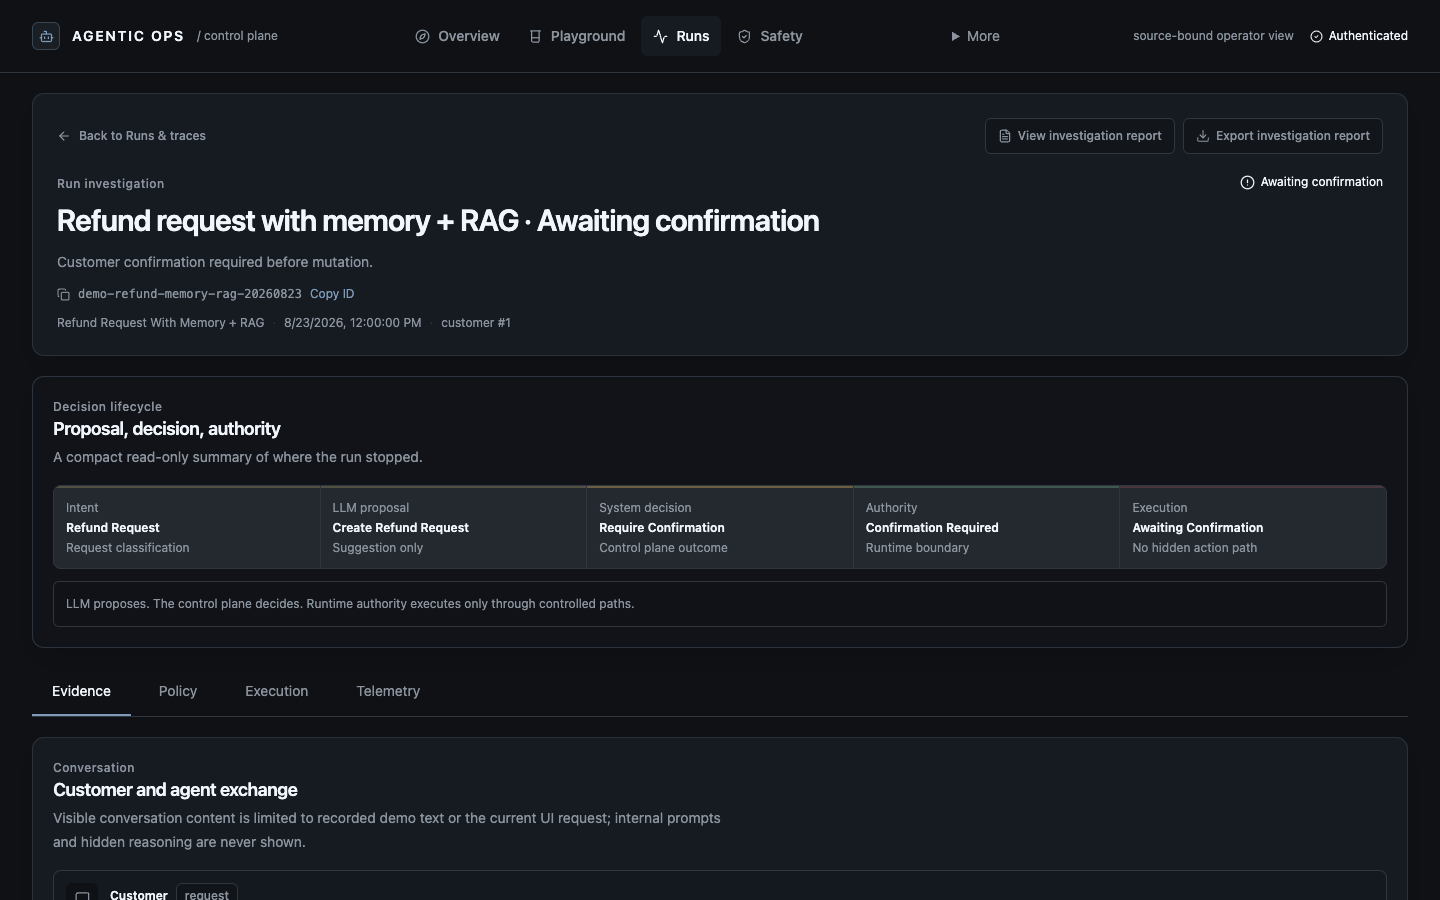
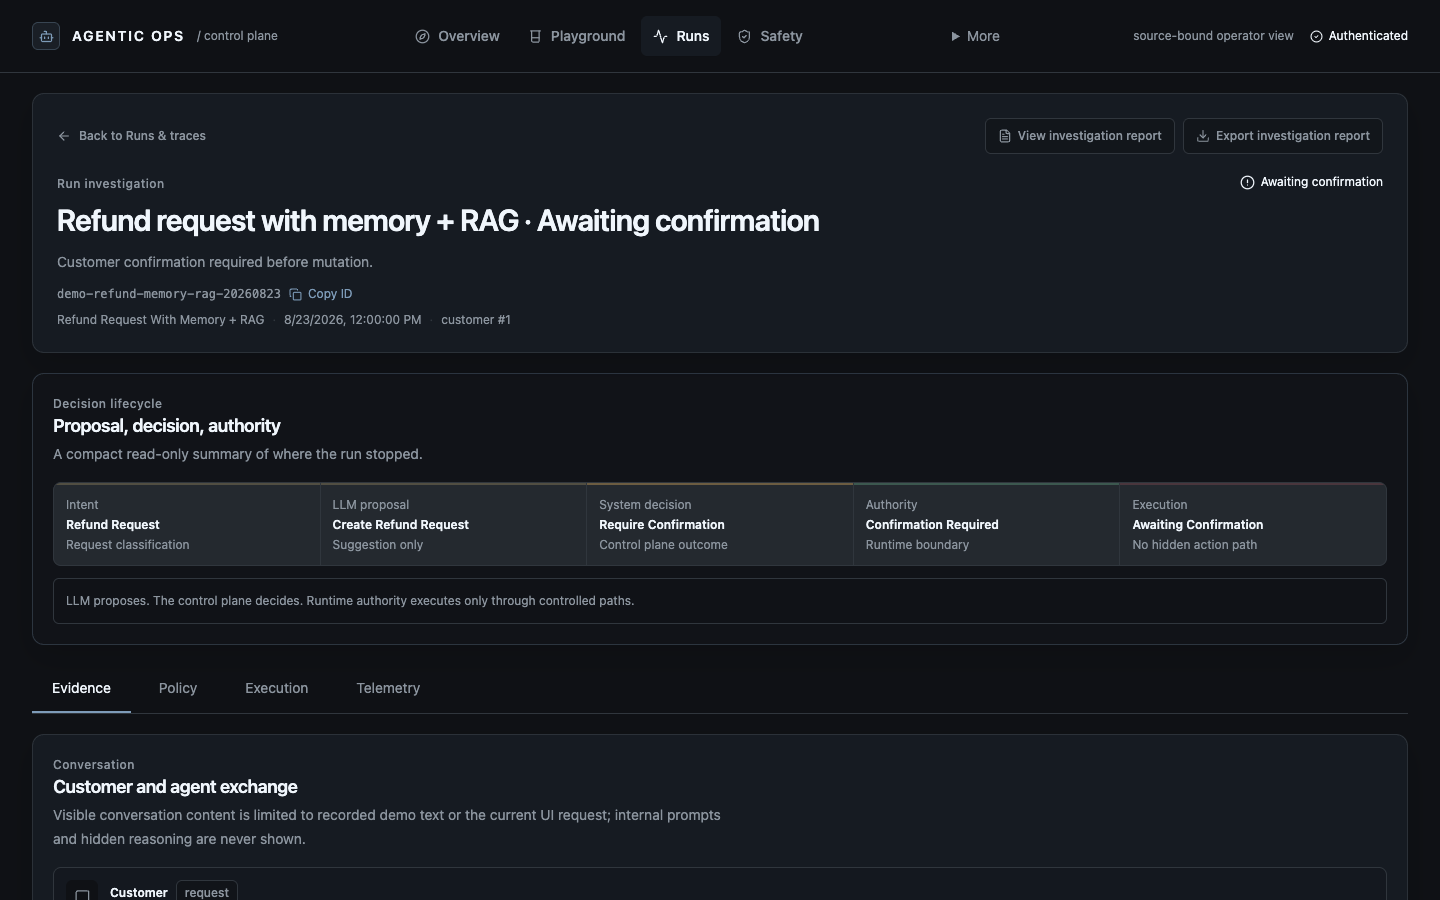
fix(ui): handle clipboard denial and verify permitted copy

diff --git a/frontend/src/components/RunInvestigationPage.tsx b/frontend/src/components/RunInvestigationPage.tsx
@@ -103,10 +103,10 @@ export function RunInvestigationPage({ run, demoScenario, memoryRecords, availab
     url.searchParams.set("tab", next);
     window.history.replaceState({}, "", url);
   };
-  const [copied, setCopied] = useState(false);
+  const [copyState, setCopyState] = useState<"idle" | "copied" | "failed">("idle");
   const scenario = useMemo(() => run ? demoScenario?.title || run.intent || run.request_type.replace(/_/g, " ") : "Run detail", [run, demoScenario]);
   useEffect(() => { if (!run) return; const focus = new URLSearchParams(window.location.search).get("focus"); const selector = focus === "evidence" ? '[aria-label="Evidence relationship graph"]' : focus === "timeline" ? '[aria-label="Operational trace timeline"]' : null; if (!selector) return; window.setTimeout(() => document.querySelector(selector)?.scrollIntoView({ block: "start" }), 0); }, [run]);
   if (loading) return <Card as="section" className="p-8"><div className="eyebrow">Run investigation</div><h1 className="section-title mt-2">Loading run projection…</h1></Card>;
   if (error || !run) return <Card as="section" className="p-8"><StatusIndicator label="Run unavailable" tone="danger" /><h1 className="section-title mt-3">Could not load this run</h1><p className="mt-2 text-sm text-muted">{error ?? "The backend returned no run projection."}</p><button type="button" className="button-primary mt-5" onClick={onBack}><ArrowLeft size={14} aria-hidden="true" />Back to console</button></Card>;
-  return <div className="space-y-5"><section className="run-detail-header surface"><div className="flex flex-wrap items-center justify-between gap-3"><button type="button" className="back-link" onClick={onBack}><ArrowLeft size={14} aria-hidden="true" />Back to Runs & traces</button><div className="flex flex-wrap gap-2"><button type="button" className="operator-action" onClick={() => setReportOpen(true)}><FileText size={14} aria-hidden="true" />View investigation report</button><button type="button" className="operator-action" onClick={() => exportInvestigationReport(run)}><Download size={14} aria-hidden="true" />Export investigation report</button></div></div><div className="mt-5 flex flex-wrap items-start justify-between gap-5"><div><div className="eyebrow">Run investigation</div><h1 className="mt-2 text-3xl font-semibold tracking-tight text-main">{scenario.replace(/_/g, " ")} · {operatorStatus(run)}</h1><p className="mt-3 max-w-3xl text-sm leading-6 text-muted">{run.decision_reason ?? "Inspect the recorded decision, its supporting evidence, and execution authority."}</p><button type="button" className="run-id-copy" onClick={async () => { try { await navigator.clipboard.writeText(run.run_id); setCopied(true); } catch { setCopied(false); } }} aria-label="Copy run ID"><Copy size={13} aria-hidden="true" /><span>{run.run_id}</span><span>{copied ? "Copied" : "Copy ID"}</span></button><div className="mt-2 flex flex-wrap items-center gap-2 text-xs text-muted"><span className="capitalize">{scenario}</span><span className="text-border">·</span><span>{new Date(run.started_at).toLocaleString()}</span><span className="text-border">·</span><span>customer #{run.customer_id}</span></div></div><StatusIndicator label={operatorStatus(run)} tone={statusTone(deriveRunSemantics(run).status === "recorded" ? run.status : deriveRunSemantics(run).status)} /></div></section><DecisionLifecycleSummary run={run} /><div className="investigation-tabs" role="tablist" aria-label="Investigation sections">{(["evidence", "policy", "execution", "telemetry"] as const).map((item) => <button type="button" role="tab" id={`tab-${item}`} aria-controls={`panel-${item}`} aria-selected={tab === item} tabIndex={tab === item ? 0 : -1} key={item} onClick={() => selectTab(item)} onKeyDown={(event) => { const tabs = ["evidence", "policy", "execution", "telemetry"] as const; const index = tabs.indexOf(item); const next = event.key === "ArrowRight" ? tabs[(index + 1) % tabs.length] : event.key === "ArrowLeft" ? tabs[(index + tabs.length - 1) % tabs.length] : event.key === "Home" ? tabs[0] : event.key === "End" ? tabs[tabs.length - 1] : null; if (next) { event.preventDefault(); selectTab(next); document.getElementById(`tab-${next}`)?.focus(); } }}><span>{item.charAt(0).toUpperCase() + item.slice(1)}</span></button>)}</div><section role="tabpanel" id={`panel-${tab}`} aria-labelledby={`tab-${tab}`} tabIndex={0} className="space-y-5">{tab === "evidence" && <><ConversationEvidence run={run} messages={demoScenario?.messages} /><EvidenceRelationshipGraph run={run} /><div className="grid gap-5 xl:grid-cols-2"><RagEvidenceCard run={run} /><MemoryEvidenceCard run={run} records={memoryRecords} /></div></>}{tab === "policy" && <><DecisionExplanationCard run={run} /><div className="grid gap-5 xl:grid-cols-2"><PolicyExplanation run={run} /><DecisionCompilerCard run={run} /></div><ProposalEvidenceCard run={run} proposal={run.proposal} /></>}{tab === "execution" && <><DecisionContextSummary run={run} /><AgentLifecyclePanel run={run} /><CompareRuns current={run} runs={availableRuns} /></>}{tab === "telemetry" && <><OperationalTraceTimeline run={run} /><Card as="section" className="p-5"><SectionHeader eyebrow="Persistence" title="Run metadata" description="Safe identifiers returned by the operator projection." /><div className="divide-y divide-border/70"><DataRow label="Request ID" value={run.request_id} mono /><DataRow label="Action ID" value={run.action_id ?? "Not recorded"} mono /><DataRow label="Duration" value={run.duration_ms > 0 ? `${run.duration_ms.toFixed(0)} ms` : run.run_id.startsWith("demo-") ? "Not applicable" : "Not recorded"} /><DataRow label="Conversation" value={run.conversation_id} mono /><DataRow label="Trace ID" value={run.trace_id ?? "Not recorded"} mono /><DataRow label="Failure category" value={humanize(run.failure_category)} /><DataRow label="Recovery action" value={humanize(run.recovery_action)} /></div></Card></>}</section>{reportOpen && <InvestigationReportModal run={run} onClose={() => setReportOpen(false)} onExport={() => exportInvestigationReport(run)} />}</div>;
+  return <div className="space-y-5"><section className="run-detail-header surface"><div className="flex flex-wrap items-center justify-between gap-3"><button type="button" className="back-link" onClick={onBack}><ArrowLeft size={14} aria-hidden="true" />Back to Runs & traces</button><div className="flex flex-wrap gap-2"><button type="button" className="operator-action" onClick={() => setReportOpen(true)}><FileText size={14} aria-hidden="true" />View investigation report</button><button type="button" className="operator-action" onClick={() => exportInvestigationReport(run)}><Download size={14} aria-hidden="true" />Export investigation report</button></div></div><div className="mt-5 flex flex-wrap items-start justify-between gap-5"><div><div className="eyebrow">Run investigation</div><h1 className="mt-2 text-3xl font-semibold tracking-tight text-main">{scenario.replace(/_/g, " ")} · {operatorStatus(run)}</h1><p className="mt-3 max-w-3xl text-sm leading-6 text-muted">{run.decision_reason ?? "Inspect the recorded decision, its supporting evidence, and execution authority."}</p><div className="run-id-copy"><code className="select-text" data-testid="investigation-run-id">{run.run_id}</code><button type="button" onClick={async () => { try { await navigator.clipboard.writeText(run.run_id); setCopyState("copied"); } catch { setCopyState("failed"); } }} aria-label="Copy run ID"><Copy size={13} aria-hidden="true" />Copy ID</button><span role="status" aria-live="polite">{copyState === "copied" ? "Copied" : copyState === "failed" ? "Copy unavailable; select the ID." : ""}</span></div><div className="mt-2 flex flex-wrap items-center gap-2 text-xs text-muted"><span className="capitalize">{scenario}</span><span className="text-border">·</span><span>{new Date(run.started_at).toLocaleString()}</span><span className="text-border">·</span><span>customer #{run.customer_id}</span></div></div><StatusIndicator label={operatorStatus(run)} tone={statusTone(deriveRunSemantics(run).status === "recorded" ? run.status : deriveRunSemantics(run).status)} /></div></section><DecisionLifecycleSummary run={run} /><div className="investigation-tabs" role="tablist" aria-label="Investigation sections">{(["evidence", "policy", "execution", "telemetry"] as const).map((item) => <button type="button" role="tab" id={`tab-${item}`} aria-controls={`panel-${item}`} aria-selected={tab === item} tabIndex={tab === item ? 0 : -1} key={item} onClick={() => selectTab(item)} onKeyDown={(event) => { const tabs = ["evidence", "policy", "execution", "telemetry"] as const; const index = tabs.indexOf(item); const next = event.key === "ArrowRight" ? tabs[(index + 1) % tabs.length] : event.key === "ArrowLeft" ? tabs[(index + tabs.length - 1) % tabs.length] : event.key === "Home" ? tabs[0] : event.key === "End" ? tabs[tabs.length - 1] : null; if (next) { event.preventDefault(); selectTab(next); document.getElementById(`tab-${next}`)?.focus(); } }}><span>{item.charAt(0).toUpperCase() + item.slice(1)}</span></button>)}</div><section role="tabpanel" id={`panel-${tab}`} aria-labelledby={`tab-${tab}`} tabIndex={0} className="space-y-5">{tab === "evidence" && <><ConversationEvidence run={run} messages={demoScenario?.messages} /><EvidenceRelationshipGraph run={run} /><div className="grid gap-5 xl:grid-cols-2"><RagEvidenceCard run={run} /><MemoryEvidenceCard run={run} records={memoryRecords} /></div></>}{tab === "policy" && <><DecisionExplanationCard run={run} /><div className="grid gap-5 xl:grid-cols-2"><PolicyExplanation run={run} /><DecisionCompilerCard run={run} /></div><ProposalEvidenceCard run={run} proposal={run.proposal} /></>}{tab === "execution" && <><DecisionContextSummary run={run} /><AgentLifecyclePanel run={run} /><CompareRuns current={run} runs={availableRuns} /></>}{tab === "telemetry" && <><OperationalTraceTimeline run={run} /><Card as="section" className="p-5"><SectionHeader eyebrow="Persistence" title="Run metadata" description="Safe identifiers returned by the operator projection." /><div className="divide-y divide-border/70"><DataRow label="Request ID" value={run.request_id} mono /><DataRow label="Action ID" value={run.action_id ?? "Not recorded"} mono /><DataRow label="Duration" value={run.duration_ms > 0 ? `${run.duration_ms.toFixed(0)} ms` : run.run_id.startsWith("demo-") ? "Not applicable" : "Not recorded"} /><DataRow label="Conversation" value={run.conversation_id} mono /><DataRow label="Trace ID" value={run.trace_id ?? "Not recorded"} mono /><DataRow label="Failure category" value={humanize(run.failure_category)} /><DataRow label="Recovery action" value={humanize(run.recovery_action)} /></div></Card></>}</section>{reportOpen && <InvestigationReportModal run={run} onClose={() => setReportOpen(false)} onExport={() => exportInvestigationReport(run)} />}</div>;
 }

diff --git a/frontend/e2e/tests/ui-polish.spec.ts b/frontend/e2e/tests/ui-polish.spec.ts
@@ -65,14 +65,16 @@ test("scenario presets populate requests and disclose settings without executing
   await capture(page, "playground-desktop.png");
 });
 
-test("investigation prioritizes outcome and supports keyboard-accessible detail tabs", async ({ page }) => {
+test("investigation prioritizes outcome and supports keyboard-accessible detail tabs", async ({ page, context }) => {
+  await context.grantPermissions(["clipboard-read", "clipboard-write"]);
   await loginOperator(page, "/runs/demo-refund-memory-rag-20260823");
   await expect(page.getByRole("heading", { level: 1 })).toContainText("Awaiting confirmation");
   await expect(page.getByLabel("Decision lifecycle summary")).toContainText("Awaiting confirmation");
   await expect(page.getByLabel("Decision lifecycle summary")).toContainText("Confirmation required");
-  await expect(page.getByRole("button", { name: "Copy run ID" })).toContainText("demo-refund-memory-rag-20260823");
+  await expect(page.getByTestId("investigation-run-id")).toHaveText("demo-refund-memory-rag-20260823");
   await page.getByRole("button", { name: "Copy run ID" }).click();
-  await expect(page.getByRole("button", { name: "Copy run ID" })).toContainText("Copied");
+  await expect(page.getByRole("status")).toHaveText("Copied");
+  expect(await page.evaluate(() => navigator.clipboard.readText())).toBe("demo-refund-memory-rag-20260823");
   await expect(page.getByRole("tab", { name: "Evidence", exact: true })).toHaveAttribute("aria-selected", "true");
   await page.getByRole("tab", { name: "Evidence", exact: true }).focus();
   await page.keyboard.press("ArrowRight");
@@ -88,6 +90,19 @@ test("investigation prioritizes outcome and supports keyboard-accessible detail 
   await capture(page, "investigation-desktop.png");
   await page.getByRole("button", { name: "Back to Runs & traces" }).click();
   await expect(page).toHaveURL(/\/traces$/);
+});
+
+test("clipboard denial leaves selectable run metadata and honest feedback", async ({ page }) => {
+  await page.addInitScript(() => {
+    Object.defineProperty(navigator, "clipboard", { value: {
+      writeText: async () => { throw new DOMException("Clipboard permission denied", "NotAllowedError"); },
+    } });
+  });
+  await loginOperator(page, "/runs/demo-refund-memory-rag-20260823");
+  await page.getByRole("button", { name: "Copy run ID" }).click();
+  await expect(page.getByRole("status")).toHaveText("Copy unavailable; select the ID.");
+  await expect(page.getByTestId("investigation-run-id")).toHaveText("demo-refund-memory-rag-20260823");
+  await expect(page.getByTestId("investigation-run-id")).toHaveCSS("user-select", "text");
 });
 
 test("primary surfaces fit mobile and tablet widths without clipping content", async ({ page }) => {

diff --git a/frontend/src/styles.css b/frontend/src/styles.css
@@ -642,9 +642,10 @@ button:focus-visible, input:focus-visible, select:focus-visible, [role="tab"]:fo
   .investigation-tabs { @apply flex gap-2 overflow-x-auto border-b border-border; }
   .investigation-tabs button { @apply min-h-12 border-b-2 border-transparent px-5 text-sm text-muted; }
   .investigation-tabs button[aria-selected="true"] { @apply border-info text-main; }
-  .run-id-copy { @apply mt-3 inline-flex max-w-full flex-wrap items-center gap-2 text-xs text-muted hover:text-main; }
-  .run-id-copy span:first-of-type { @apply break-all font-mono; }
-  .run-id-copy span:last-of-type { @apply text-info; }
+  .run-id-copy { @apply mt-3 inline-flex max-w-full flex-wrap items-center gap-2 text-xs text-muted; }
+  .run-id-copy code { @apply break-all font-mono; }
+  .run-id-copy button { @apply inline-flex shrink-0 items-center gap-1.5 text-info hover:text-main; }
+  .run-id-copy [role="status"] { @apply text-info; }
   .product-hero { @apply grid items-center gap-10 p-6 sm:p-10 xl:grid-cols-[1.15fr_.85fr]; }
   .product-hero h1 { @apply mt-4 text-3xl font-semibold leading-tight tracking-tight sm:text-4xl; }
   .product-boundary { @apply rounded-lg border border-border bg-void/40 p-5 sm:p-6; }

diff --git a/docs/operator-ui-polish.md b/docs/operator-ui-polish.md
@@ -6,7 +6,7 @@ Each destination has its own URL. `/` continues to open the legacy Workspace; `/
 
 Playground starts with an editable damaged-product refund request. Featured presets populate the form without executing a request; selecting another preset clears the preceding result. Scenario settings, session tools, the full scenario library, and runtime configuration are disclosed on demand. A recorded fixture preview is labeled separately from a submitted backend replay or live proposal. Neither mode bypasses server authorization.
 
-Run investigation leads with the scenario/intent and its observed outcome. The run ID is secondary, copyable metadata. A compact decision flow stays above Evidence, Policy, Execution, and Telemetry tabs. Tabs support arrow keys, Home, and End. Bounded evidence, comparisons, exports, and the report dialog remain accessible.
+Run investigation leads with the scenario/intent and its observed outcome. The run ID is secondary, selectable metadata with a copy action and explicit feedback when clipboard access is unavailable. A compact decision flow stays above Evidence, Policy, Execution, and Telemetry tabs. Tabs support arrow keys, Home, and End. Bounded evidence, comparisons, exports, and the report dialog remain accessible.
 
 Overview gives the refund workflow one primary entry point and summarizes three control boundaries. Recorded release evaluation results are visually separated from current runtime projections; demo fixture IDs are excluded from runtime counters. Historical evaluation values are not new production measurements.
 
